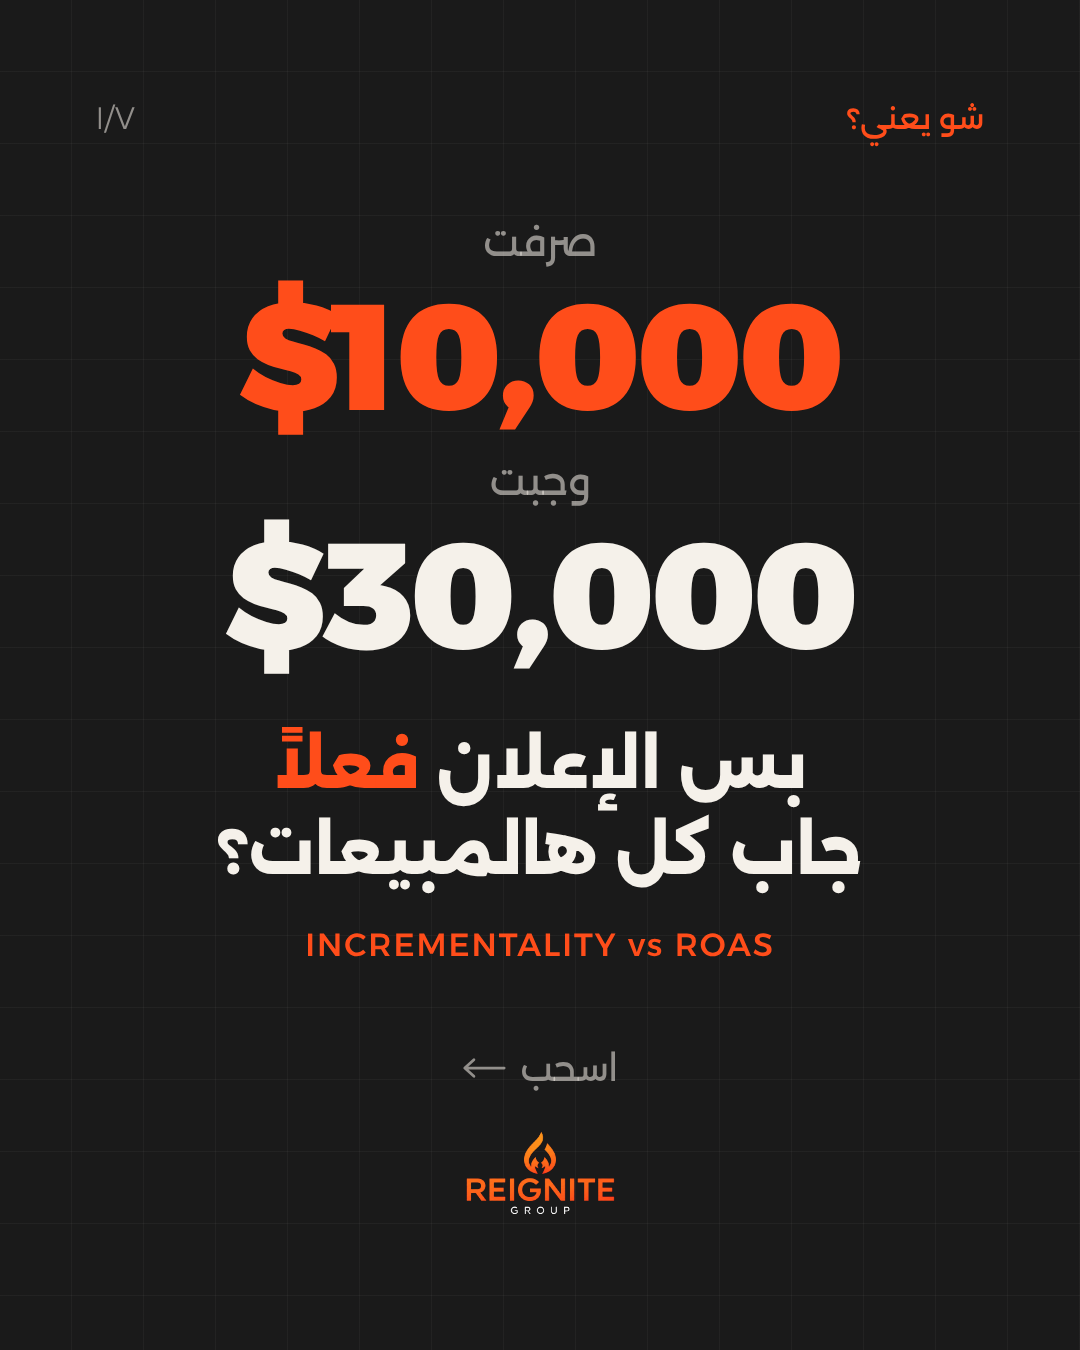
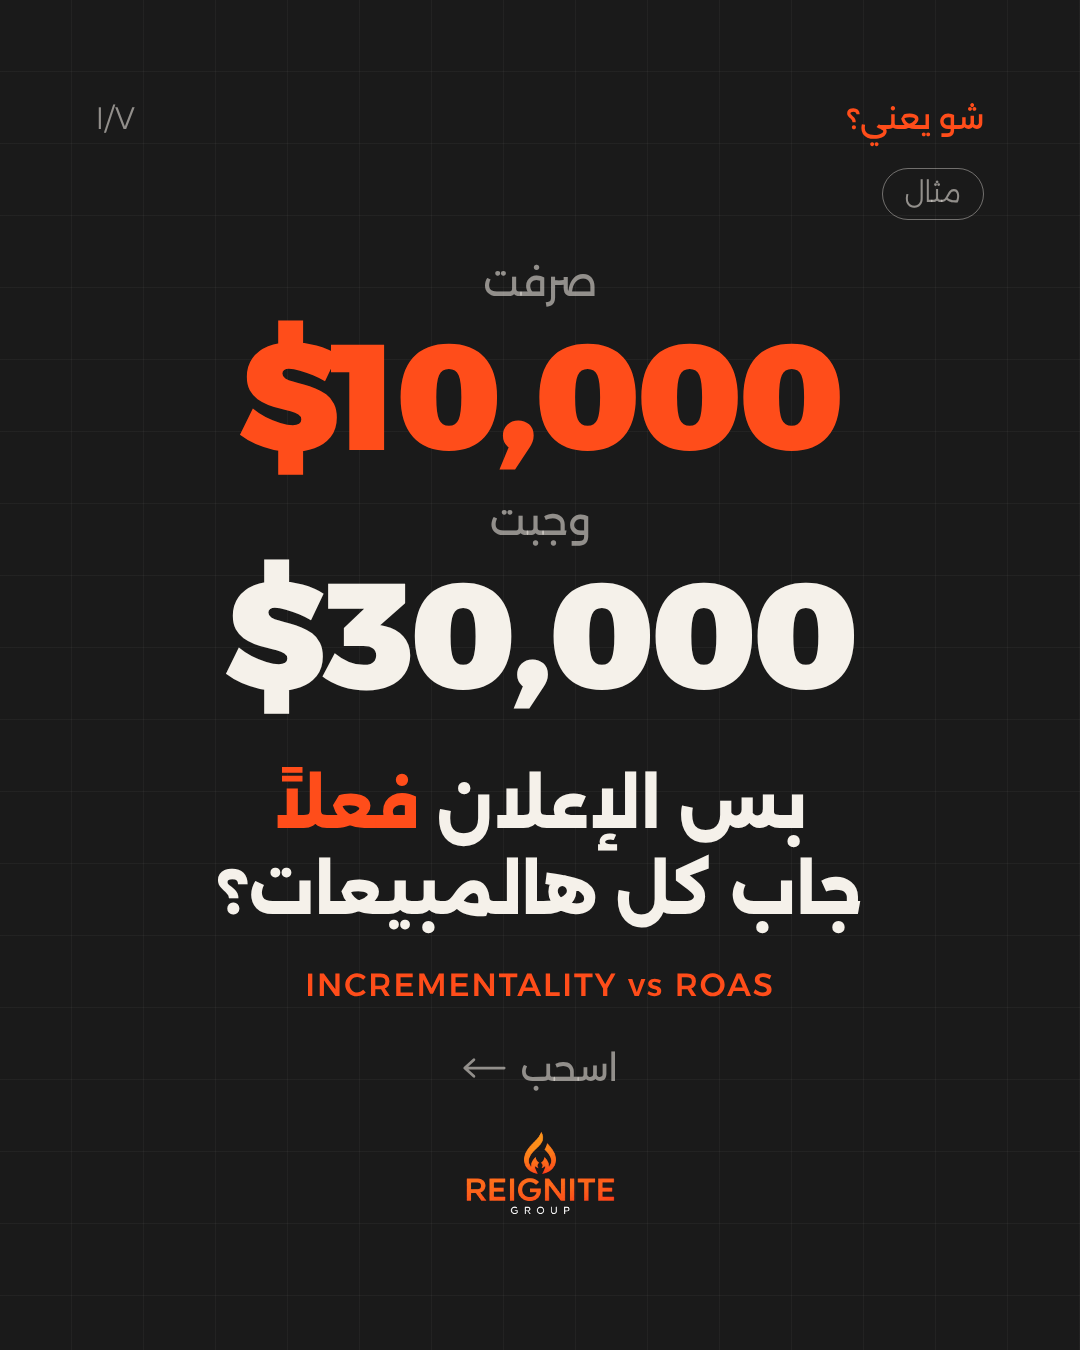
feat: tag the cover slide's numbers as an example
Slide 1 shows the same hypothetical $10,000 / $30,000 as the rest, so it
carries the مثال tag too.

Claude-Session: https://claude.ai/code/session_017eV6GCXmJHvCBWWVo8HGHv

Changed region(s): [[0.1833, 0.1556, 0.7944, 0.7467], [0.825, 0.1244, 0.8861, 0.1556]]

diff --git a/carousels/incrementality-roas/slides/slide-1.html b/carousels/incrementality-roas/slides/slide-1.html
@@ -7,7 +7,7 @@
     <link rel="stylesheet" href="../styles.css" />
     <style>
 
-      .body { justify-content: space-between; padding-top: 70px; }
+      .body { justify-content: space-between; padding-top: 30px; }
       .foot { text-align: center; }
       .swipe { font-size: 36px; font-weight: 400; display: inline-flex; align-items: center; gap: 14px; margin-bottom: 6px; }
     </style>
@@ -18,7 +18,7 @@
         <span class="series">شو يعني؟</span>
         <span class="count">١/٧</span>
       </header>
-      
+      <div class="example">مثال</div>
       <main class="body">
 
         <div class="center">
